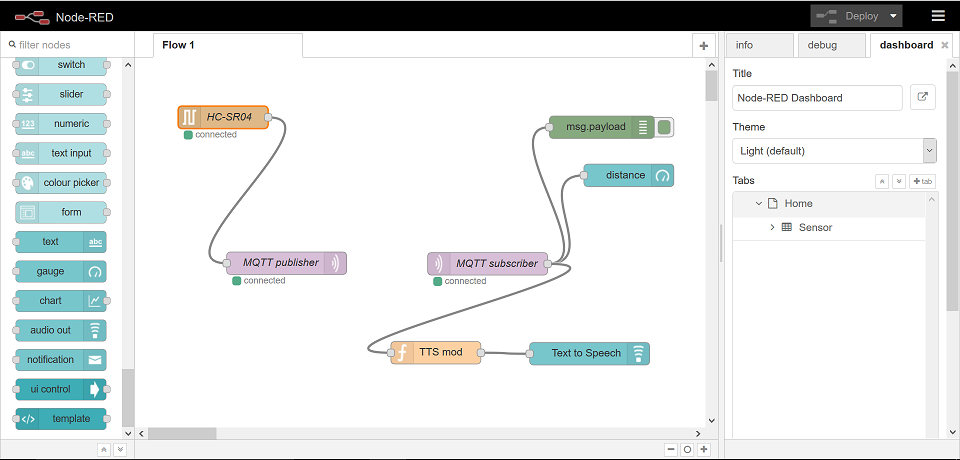
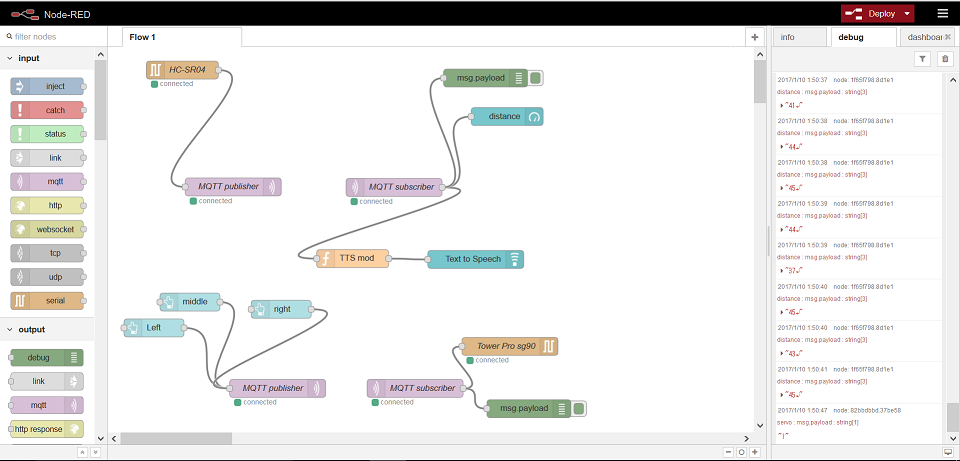
Servo motor sg90

diff --git a/servomotor.X/main.c b/servomotor.X/main.c
@@ -1,49 +1,6 @@
-/**
-  Generated Main Source File
-
-  Company:
-    Microchip Technology Inc.
-
-  File Name:
-    main.c
-
-  Summary:
-    This is the main file generated using MPLAB(c) Code Configurator
-
-  Description:
-    This header file provides implementations for driver APIs for all modules selected in the GUI.
-    Generation Information :
-        Product Revision  :  MPLAB(c) Code Configurator - 4.15
-        Device            :  PIC16F1829
-        Driver Version    :  2.00
-    The generated drivers are tested against the following:
-        Compiler          :  XC8 1.35
-        MPLAB             :  MPLAB X 3.40
-*/
-
-/*
-    (c) 2016 Microchip Technology Inc. and its subsidiaries. You may use this
-    software and any derivatives exclusively with Microchip products.
-
-    THIS SOFTWARE IS SUPPLIED BY MICROCHIP "AS IS". NO WARRANTIES, WHETHER
-    EXPRESS, IMPLIED OR STATUTORY, APPLY TO THIS SOFTWARE, INCLUDING ANY IMPLIED
-    WARRANTIES OF NON-INFRINGEMENT, MERCHANTABILITY, AND FITNESS FOR A
-    PARTICULAR PURPOSE, OR ITS INTERACTION WITH MICROCHIP PRODUCTS, COMBINATION
-    WITH ANY OTHER PRODUCTS, OR USE IN ANY APPLICATION.
-
-    IN NO EVENT WILL MICROCHIP BE LIABLE FOR ANY INDIRECT, SPECIAL, PUNITIVE,
-    INCIDENTAL OR CONSEQUENTIAL LOSS, DAMAGE, COST OR EXPENSE OF ANY KIND
-    WHATSOEVER RELATED TO THE SOFTWARE, HOWEVER CAUSED, EVEN IF MICROCHIP HAS
-    BEEN ADVISED OF THE POSSIBILITY OR THE DAMAGES ARE FORESEEABLE. TO THE
-    FULLEST EXTENT ALLOWED BY LAW, MICROCHIP'S TOTAL LIABILITY ON ALL CLAIMS IN
-    ANY WAY RELATED TO THIS SOFTWARE WILL NOT EXCEED THE AMOUNT OF FEES, IF ANY,
-    THAT YOU HAVE PAID DIRECTLY TO MICROCHIP FOR THIS SOFTWARE.
-
-    MICROCHIP PROVIDES THIS SOFTWARE CONDITIONALLY UPON YOUR ACCEPTANCE OF THESE
-    TERMS.
-*/
-
 #include "mcc_generated_files/mcc.h"
+
+#define _XTAL_FREQ 1000000
 
 /*
                          Main application
@@ -52,26 +9,45 @@ void main(void)
 {
     // initialize the device
     SYSTEM_Initialize();
+    INTERRUPT_GlobalInterruptEnable();
+    INTERRUPT_PeripheralInterruptEnable();
+    EUSART_Initialize();
+    EPWM1_Initialize();
 
-    // When using interrupts, you need to set the Global and Peripheral Interrupt Enable bits
-    // Use the following macros to:
-
-    // Enable the Global Interrupts
-    //INTERRUPT_GlobalInterruptEnable();
-
-    // Enable the Peripheral Interrupts
-    //INTERRUPT_PeripheralInterruptEnable();
-
-    // Disable the Global Interrupts
-    //INTERRUPT_GlobalInterruptDisable();
-
-    // Disable the Peripheral Interrupts
-    //INTERRUPT_PeripheralInterruptDisable();
-
+    /* CCPR value
+      1msec: 61
+      1.5msec: 92
+      2msec: 122
+     */
+    uint16_t dutyValue = 92;
+    uint8_t c;
+    
+    EPWM1_LoadDutyValue(dutyValue);
     while (1)
     {
-        // Add your application code
-    }
+        __delay_ms(1000);
+        LATCbits.LATC4 ^= 1;
+        //printf("Hello World\n");
+        if (EUSART_DataReady) {
+            c = EUSART_Read();
+            switch(c) {
+                case 'r':
+                    dutyValue = 40;
+                    printf("left\n");
+                    break;
+                case 'm':
+                    dutyValue = 100;
+                    printf("middle\n");
+                    break;
+                case 'l':
+                    dutyValue = 160;
+                    printf("right\n");
+                    break;
+            }
+            EPWM1_LoadDutyValue(dutyValue);
+        }
+        CLRWDT();
+    } 
 }
 /**
  End of File

diff --git a/servomotor.X/mcc_generated_files/pin_manager.h b/servomotor.X/mcc_generated_files/pin_manager.h
@@ -59,19 +59,41 @@
 #define PULL_UP_ENABLED      1
 #define PULL_UP_DISABLED     0
 
-// get/set IO_RB7 aliases
-#define IO_RB7_TRIS               TRISBbits.TRISB7
-#define IO_RB7_LAT                LATBbits.LATB7
-#define IO_RB7_PORT               PORTBbits.RB7
-#define IO_RB7_WPU                WPUBbits.WPUB7
-#define IO_RB7_SetHigh()            do { LATBbits.LATB7 = 1; } while(0)
-#define IO_RB7_SetLow()             do { LATBbits.LATB7 = 0; } while(0)
-#define IO_RB7_Toggle()             do { LATBbits.LATB7 = ~LATBbits.LATB7; } while(0)
-#define IO_RB7_GetValue()           PORTBbits.RB7
-#define IO_RB7_SetDigitalInput()    do { TRISBbits.TRISB7 = 1; } while(0)
-#define IO_RB7_SetDigitalOutput()   do { TRISBbits.TRISB7 = 0; } while(0)
-#define IO_RB7_SetPullup()      do { WPUBbits.WPUB7 = 1; } while(0)
-#define IO_RB7_ResetPullup()    do { WPUBbits.WPUB7 = 0; } while(0)
+// get/set RB5 procedures
+#define RB5_SetHigh()    do { LATBbits.LATB5 = 1; } while(0)
+#define RB5_SetLow()   do { LATBbits.LATB5 = 0; } while(0)
+#define RB5_Toggle()   do { LATBbits.LATB5 = ~LATBbits.LATB5; } while(0)
+#define RB5_GetValue()         PORTBbits.RB5
+#define RB5_SetDigitalInput()   do { TRISBbits.TRISB5 = 1; } while(0)
+#define RB5_SetDigitalOutput()  do { TRISBbits.TRISB5 = 0; } while(0)
+#define RB5_SetPullup()     do { WPUBbits.WPUB5 = 1; } while(0)
+#define RB5_ResetPullup()   do { WPUBbits.WPUB5 = 0; } while(0)
+#define RB5_SetAnalogMode() do { ANSELBbits.ANSB5 = 1; } while(0)
+#define RB5_SetDigitalMode()do { ANSELBbits.ANSB5 = 0; } while(0)
+
+// get/set RB7 procedures
+#define RB7_SetHigh()    do { LATBbits.LATB7 = 1; } while(0)
+#define RB7_SetLow()   do { LATBbits.LATB7 = 0; } while(0)
+#define RB7_Toggle()   do { LATBbits.LATB7 = ~LATBbits.LATB7; } while(0)
+#define RB7_GetValue()         PORTBbits.RB7
+#define RB7_SetDigitalInput()   do { TRISBbits.TRISB7 = 1; } while(0)
+#define RB7_SetDigitalOutput()  do { TRISBbits.TRISB7 = 0; } while(0)
+#define RB7_SetPullup()     do { WPUBbits.WPUB7 = 1; } while(0)
+#define RB7_ResetPullup()   do { WPUBbits.WPUB7 = 0; } while(0)
+
+// get/set IO_RC4 aliases
+#define IO_RC4_TRIS               TRISCbits.TRISC4
+#define IO_RC4_LAT                LATCbits.LATC4
+#define IO_RC4_PORT               PORTCbits.RC4
+#define IO_RC4_WPU                WPUCbits.WPUC4
+#define IO_RC4_SetHigh()            do { LATCbits.LATC4 = 1; } while(0)
+#define IO_RC4_SetLow()             do { LATCbits.LATC4 = 0; } while(0)
+#define IO_RC4_Toggle()             do { LATCbits.LATC4 = ~LATCbits.LATC4; } while(0)
+#define IO_RC4_GetValue()           PORTCbits.RC4
+#define IO_RC4_SetDigitalInput()    do { TRISCbits.TRISC4 = 1; } while(0)
+#define IO_RC4_SetDigitalOutput()   do { TRISCbits.TRISC4 = 0; } while(0)
+#define IO_RC4_SetPullup()      do { WPUCbits.WPUC4 = 1; } while(0)
+#define IO_RC4_ResetPullup()    do { WPUCbits.WPUC4 = 0; } while(0)
 
 // get/set RC5 procedures
 #define RC5_SetHigh()    do { LATCbits.LATC5 = 1; } while(0)

diff --git a/servomotor.X/mcc_generated_files/epwm1.c b/servomotor.X/mcc_generated_files/epwm1.c
@@ -54,7 +54,7 @@
   Section: Macro Declarations
 */
 
-#define PWM1_INITIALIZE_DUTY_VALUE    101
+#define PWM1_INITIALIZE_DUTY_VALUE    76
 
 /**
   Section: EPWM Module APIs
@@ -64,8 +64,8 @@ void EPWM1_Initialize (void)
 {
     // Set the PWM to the options selected in MPLAB(c) Code Configurator
     
-    // CCP1M P1A,P1C: active high; P1B,P1D: active high; DC1B 1; P1M single; 
-    CCP1CON = 0x1C;
+    // CCP1M P1A,P1C: active high; P1B,P1D: active high; DC1B 0; P1M single; 
+    CCP1CON = 0x0C;
     
     // CCP1ASE operating; PSS1BD low; PSS1AC low; CCP1AS disabled; 
     ECCP1AS = 0x00;
@@ -76,8 +76,8 @@ void EPWM1_Initialize (void)
     // STR1D P1D_to_port; STR1C P1C_to_port; STR1B P1B_to_port; STR1A P1A_to_CCP1M; STR1SYNC start_at_begin; 
     PSTR1CON = 0x01;
     
-    // CCPR1L 25; 
-    CCPR1L = 0x19;
+    // CCPR1L 19; 
+    CCPR1L = 0x13;
     
     // CCPR1H 0; 
     CCPR1H = 0x00;

diff --git a/servomotor.X/mcc_generated_files/eusart.c b/servomotor.X/mcc_generated_files/eusart.c
@@ -83,11 +83,11 @@ void EUSART_Initialize(void)
     // ABDOVF no_overflow; SCKP Non-Inverted; BRG16 16bit_generator; WUE disabled; ABDEN disabled; 
     BAUDCON = 0x08;
 
-    // SPEN enabled; RX9 8-bit; CREN disabled; ADDEN disabled; SREN disabled; 
-    RCSTA = 0x80;
+    // SPEN enabled; RX9 8-bit; CREN enabled; ADDEN disabled; SREN disabled; 
+    RCSTA = 0x90;
 
-    // TX9 8-bit; TX9D 0; SENDB sync_break_complete; TXEN disabled; SYNC asynchronous; BRGH hi_speed; CSRC slave; 
-    TXSTA = 0x04;
+    // TX9 8-bit; TX9D 0; SENDB sync_break_complete; TXEN enabled; SYNC asynchronous; BRGH hi_speed; CSRC slave; 
+    TXSTA = 0x24;
 
     // Baud Rate = 9600; SPBRGL 25; 
     SPBRGL = 0x19;
@@ -112,7 +112,6 @@ void EUSART_Initialize(void)
 uint8_t EUSART_Read(void)
 {
     uint8_t readValue  = 0;
-    RCSTAbits.CREN = 1;	
     
     while(0 == eusartRxCount)
     {

diff --git a/servomotor.X/mcc_generated_files/pin_manager.c b/servomotor.X/mcc_generated_files/pin_manager.c
@@ -62,7 +62,7 @@ void PIN_MANAGER_Initialize(void)
     */    
     TRISA = 0x3F;
     TRISB = 0xF0;
-    TRISC = 0xDF;
+    TRISC = 0xCF;
 
     /**
     ANSELx registers

diff --git a/README.md b/README.md
@@ -36,9 +36,9 @@ Note: I use MPLAB Code Configurator (MCC) to generate code for USART, I2C etc.
 
 ### Sensor/actuator
 
-- [Distance sensor block (HC-SR04)]
+- [Distance sensor block (HC-SR04)](./distance.X)
 - [Orientation sensor block (HMC5883L and L3GD20)](./orientation.X)
-- [Servo motor actuator block (TowerPro sg90)]
+- [Servo motor actuator block (TowerPro sg90)](./servomotor.X)
 
 ### Bridge
 
